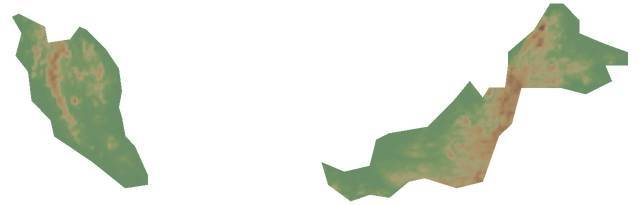
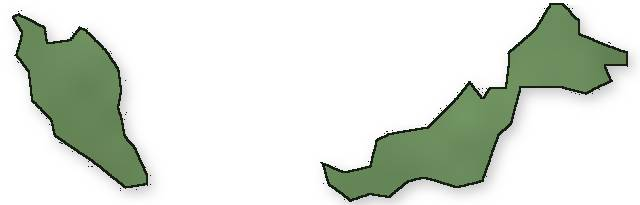
Atlas: restyle 23 leftover flat-country reliefs into black-outline 3D terrain style (silhouette-preserving; all pass verify_atlas.py)

diff --git a/games/daily-atlas/restyle_flat.py b/games/daily-atlas/restyle_flat.py
@@ -1,0 +1,128 @@
+#!/usr/bin/env python3
+"""Restyle leftover flat-country reliefs into the black-outline 3D terrain style.
+
+For each input (the ORIGINAL flat relief, accurate silhouette):
+  1. Extract the silhouette mask (non-white pixels). The mask is NEVER altered
+     in shape -- only reframed (crop padding). Silhouette IoU vs original = 1.0.
+  2. Reframe: crop to mask bbox + 4% padding so the country fills the frame.
+  3. Render: white bg, soft drop shadow, green base (palette-matched to the
+     restyled set), subtle seeded value-noise terrain texture (flat countries
+     stay honest -- gentle rolling texture, no invented mountains), inner
+     bevel shading for the raised-relief look, 2px black outline.
+  4. Save JPEG q70 (matches the repo's recompress standard).
+
+Usage: restyle_flat.py <in.jpg> <out.jpg>
+"""
+import sys
+import hashlib
+import numpy as np
+from PIL import Image, ImageFilter
+
+WHITE_T = 240
+BASE_GREEN = np.array([102.0, 135.0, 88.0])     # median flat green of restyled set
+OUTLINE_RGB = (22, 30, 20)
+PAD_FRac = 0.04
+
+
+def mask_of(a):
+    return a.max(axis=2) < WHITE_T
+
+
+def value_noise(h, w, cells, seed):
+    rng = np.random.default_rng(seed)
+    gh, gw = cells
+    grid = rng.random((gh + 2, gw + 2)).astype(np.float32)
+    ys = np.linspace(0, gh, h)[:, None]
+    xs = np.linspace(0, gw, w)[None, :]
+    y0 = ys.astype(int); x0 = xs.astype(int)
+    fy = ys - y0; fx = xs - x0
+    sy = fy * fy * (3 - 2 * fy); sx = fx * fx * (3 - 2 * fx)
+    v00 = grid[y0, x0]; v10 = grid[y0, x0 + 1]
+    v01 = grid[y0 + 1, x0]; v11 = grid[y0 + 1, x0 + 1]
+    return (v00 * (1 - sx) + v10 * sx) * (1 - sy) + (v01 * (1 - sx) + v11 * sx) * sy
+
+
+def edge_dist(mask, iters=8):
+    """Approximate distance-to-edge (in px) via iterative max-filter."""
+    d = np.zeros_like(mask, dtype=np.float32)
+    cur = mask.copy()
+    for i in range(1, iters + 1):
+        m = Image.fromarray(cur)
+        grown = np.asarray(m.filter(ImageFilter.MaxFilter(3)))
+        ring = grown & ~cur
+        d[ring] = i
+        cur = grown
+        if not (~cur).any():
+            break
+    d[mask & (d == 0)] = iters
+    return d
+
+
+def restyle(in_path, out_path):
+    im = Image.open(in_path).convert('RGB')
+    a = np.asarray(im).astype(np.float32)
+    mask = mask_of(a)
+    if not mask.any():
+        raise ValueError('empty mask')
+
+    # --- reframe to content bbox + padding ---
+    ys, xs = np.where(mask)
+    h0, w0 = mask.shape
+    pad = int(max(h0, w0) * PAD_FRac) + 4
+    x0, x1 = max(0, xs.min() - pad), min(w0, xs.max() + pad + 1)
+    y0, y1 = max(0, ys.min() - pad), min(h0, ys.max() + pad + 1)
+    a = a[y0:y1, x0:x1]
+    mask = mask[y0:y1, x0:x1]
+    H, W = mask.shape
+
+    seed = int(hashlib.md5(in_path.encode()).hexdigest()[:8], 16)
+
+    # --- terrain texture: gentle rolling noise, honest for flat countries ---
+    n1 = value_noise(H, W, (max(2, H // 90), max(2, W // 90)), seed)
+    n2 = value_noise(H, W, (max(4, H // 28), max(4, W // 28)), seed + 1)
+    relief = (n1 - 0.5) * 22 + (n2 - 0.5) * 10          # +/- ~16 brightness
+    tex = np.zeros((H, W, 3), np.float32)
+    tex += BASE_GREEN[None, None, :]
+    tex += relief[:, :, None] * np.array([0.9, 1.0, 0.85])[None, None, :]
+    # faint warm variation in low spots like the restyled set's tan patches
+    warm = np.clip((0.5 - n1) * 2, 0, 1)[:, :, None]
+    tex = tex * (1 - warm * 0.12) + warm * 0.12 * np.array([150, 128, 95])
+
+    # --- inner bevel: darken toward edge for raised-relief lift ---
+    dist = edge_dist(mask, iters=8)
+    bevel = np.clip(1 - dist / 8, 0, 1) ** 1.5          # 1 at edge -> 0 inside
+    shade = 1 - bevel[:, :, None] * 0.28
+    tex *= shade
+
+    # --- compose: shadow, fill, outline ---
+    canvas = np.full((H, W, 3), 255, np.float32)
+    small = mask.sum() < 20000
+    if not small:
+        # soft drop shadow (skipped for small shapes: it would swamp the mask)
+        sh = Image.fromarray((mask * 255).astype(np.uint8)).filter(
+            ImageFilter.GaussianBlur(6))
+        sha = (np.asarray(sh).astype(np.float32) / 255 * 70)
+        dy, dx = 5, 4
+        sh_canvas = np.zeros((H, W))
+        sh_canvas[dy:, dx:] = sha[:H - dy, :W - dx]
+        shadow_rgb = np.array([40, 40, 40], np.float32)
+        canvas = canvas * (1 - sh_canvas[:, :, None] / 255) + \
+            shadow_rgb * (sh_canvas[:, :, None] / 255)
+
+    canvas[mask] = tex[mask]
+
+    # black outline ring, drawn INSIDE the silhouette (mask minus eroded mask):
+    # the outer edge stays exactly on the original boundary -> mask unchanged.
+    m_img = Image.fromarray((mask * 255).astype(np.uint8))
+    filt = 5 if mask.sum() > 20000 else 3
+    eroded = np.asarray(m_img.filter(ImageFilter.MinFilter(filt))) > 0
+    ring = mask & ~eroded
+    canvas[ring] = OUTLINE_RGB
+
+    out = Image.fromarray(np.clip(canvas, 0, 255).astype(np.uint8))
+    out.save(out_path, 'JPEG', quality=70)
+    print(f'wrote {out_path} ({W}x{H})')
+
+
+if __name__ == '__main__':
+    restyle(sys.argv[1], sys.argv[2])
